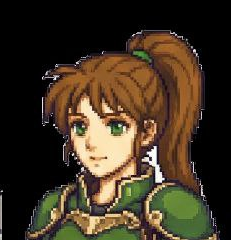
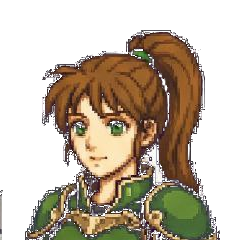
feat: real portrait images in gameplay
- Remove black background → transparent PNG
- Clean white fringe with gradient alpha
- drawPortrait() now loads portraits/*.png with fallback to procedural
- Image cache prevents reloading
- Used in: status screen, dialogue, battle UI

diff --git a/js/sprites.js b/js/sprites.js
@@ -184,37 +184,54 @@ const Sprites = {
     }
   },
 
+  _portraitCache: {},
+
   drawPortrait(ctx, charId, w, h) {
     const ch = CHARACTERS[charId];
-    if (!ch || !ch.portrait) {
+    if (!ch) {
+      ctx.fillStyle = '#333';
+      ctx.fillRect(0, 0, w, h);
+      return;
+    }
+
+    // Try loading real portrait image
+    if (!this._portraitCache[charId]) {
+      const img = new Image();
+      img.src = 'portraits/' + charId + '.png';
+      this._portraitCache[charId] = { img, loaded: false, failed: false };
+      img.onload = () => { this._portraitCache[charId].loaded = true; };
+      img.onerror = () => { this._portraitCache[charId].failed = true; };
+    }
+
+    const cached = this._portraitCache[charId];
+    if (cached.loaded) {
+      ctx.drawImage(cached.img, 0, 0, w, h);
+      return;
+    }
+
+    // Fallback: procedural portrait
+    if (!ch.portrait) {
       ctx.fillStyle = '#333';
       ctx.fillRect(0, 0, w, h);
       return;
     }
     const p = ch.portrait;
-    // Background
     ctx.fillStyle = '#223';
     ctx.fillRect(0, 0, w, h);
-    // Face
     ctx.fillStyle = p.skin;
     ctx.fillRect(16, 20, 32, 36);
-    // Hair
     ctx.fillStyle = p.hair;
     ctx.fillRect(12, 8, 40, 16);
     ctx.fillRect(12, 8, 8, 40);
     ctx.fillRect(44, 8, 8, 30);
-    // Eyes
     ctx.fillStyle = p.eyes;
     ctx.fillRect(22, 32, 6, 4);
     ctx.fillRect(36, 32, 6, 4);
-    // Pupils
     ctx.fillStyle = '#111';
     ctx.fillRect(24, 33, 3, 2);
     ctx.fillRect(38, 33, 3, 2);
-    // Mouth
     ctx.fillStyle = '#c88';
     ctx.fillRect(28, 44, 8, 2);
-    // Nose
     ctx.fillStyle = '#da9';
     ctx.fillRect(31, 38, 3, 4);
   },
